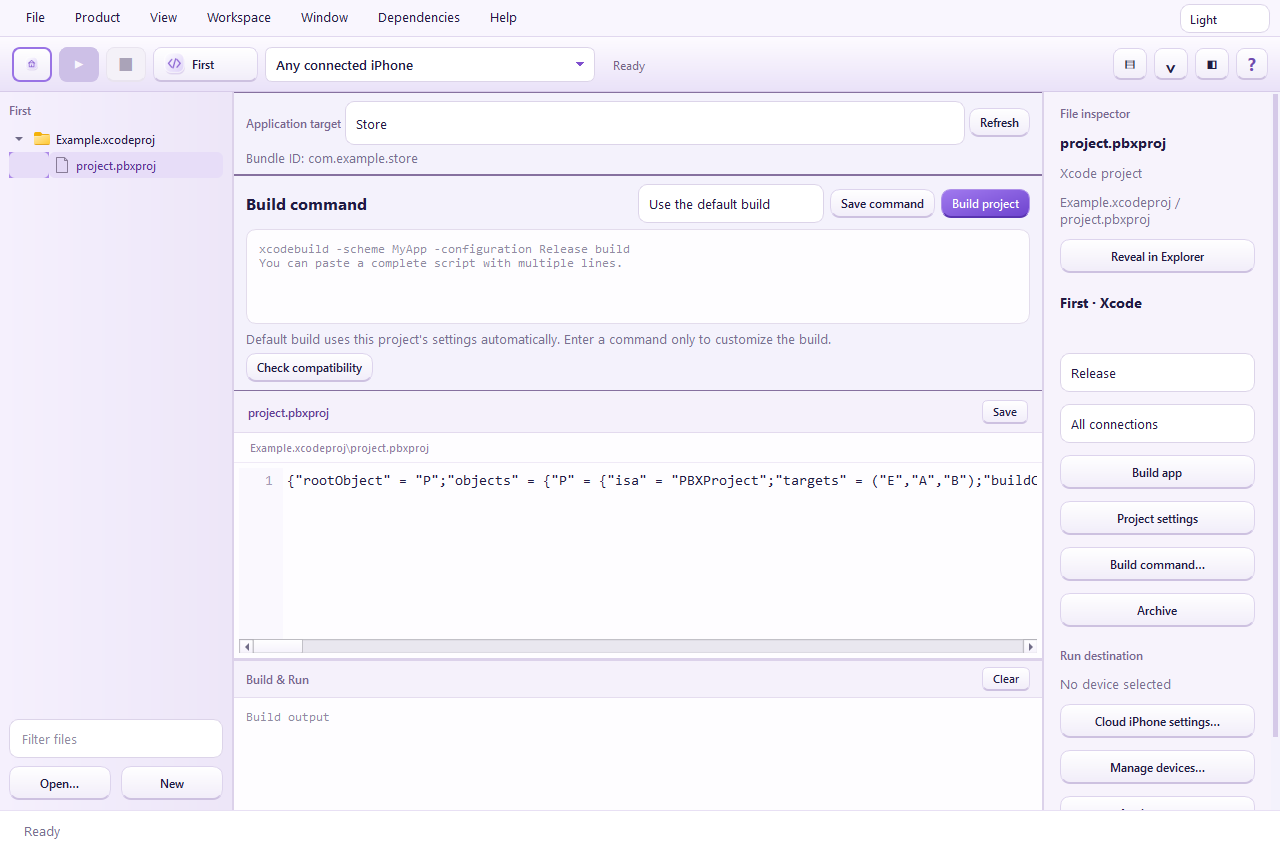
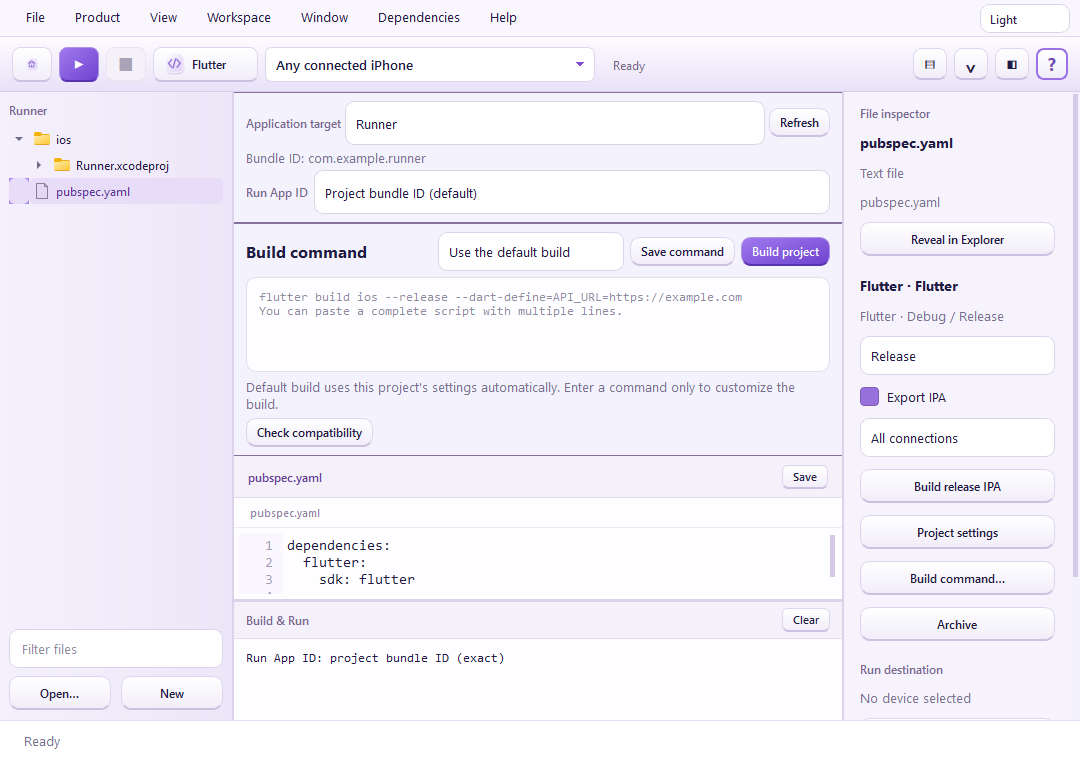
Document Rano IDE 1.0.16 exact device App ID selection

diff --git a/README.md b/README.md
@@ -6,23 +6,21 @@
 
 Rano IDE brings project files, build commands, dependency setup, iPhone connections and App Store Connect delivery into one desktop application. Its supported build paths run locally on Windows through WSL; Rano IDE does not send your project to a build server operated by us.
 
-**Current release: 1.0.15 · Windows x64 · Free to download and use · Application source is private.**
+**Current release: 1.0.16 · Windows x64 · Free to download and use · Application source is private.**
 
-👉 **[Download Rano IDE 1.0.15](https://github.com/hrano1000/Rano-IDE/releases/download/v1.0.15/RanoIDESetup-1.0.15.exe)**
+👉 **[Download Rano IDE 1.0.16](https://github.com/hrano1000/Rano-IDE/releases/download/v1.0.16/RanoIDESetup-1.0.16.exe)**
 
 📦 **[All releases and downloads](https://github.com/hrano1000/Rano-IDE/releases)** · 🐛 **[Report a problem](https://github.com/hrano1000/Rano-IDE/issues)** · 📜 **[License](LICENSE)** · 🔐 **[Privacy and security](SECURITY.md)**
 
 This public repository contains the downloads, user documentation, branding and dependency notices. It does not publish the Rano IDE desktop application's development source. GitHub's automatically generated repository ZIP contains these documents; choose the **EXE installer** to install the application.
 
-## 🆕 What's new in 1.0.15
+## 🆕 What's new in 1.0.16
 
-- 🎯 **Application target** is visible in Workbench above **Build command**, with the selected app's bundle ID beneath it.
-- 💾 Native iOS and React Native choices are remembered separately for each project and container. Multiple apps require an explicit choice; a missing saved target cannot silently switch to another app.
-- 📱 Flutter shows its supported **Runner** application. Notification extensions, tests and libraries are not main-app choices. Other Flutter app targets are marked unavailable rather than pretending to build them.
-- 🛡 Custom native commands cannot silently override the selected application. The established upload, signing and asset compilation implementations and the 1.0.14 metadata correction are retained.
-- 🔄 Flutter device Run selects a new app's original App ID automatically and retries temporary development-service lookups. Existing identity choices are preserved; signing mutations are not automatically repeated.
+- 🎯 **Run App ID** is visible in Workbench below Application target for Flutter device testing.
+- ✅ **Project bundle ID (default)** uses the exact project identity, even if a previous run selected a prefixed development ID.
+- 🔀 **Team-prefixed development ID** remains available as an explicit, project-specific choice.
+- 🛡 An offline profile for another identity cannot silently replace the selected app. App Store distribution is unchanged.
 
-The installed application passed packaged UI and installer checks. Project compatibility and setup limits are described below; local checks do not guarantee Apple's acceptance of every project.
 
 ## 🧭 Contents
 
@@ -68,7 +66,7 @@ Rano IDE provides:
 
 Rano IDE is a practical development tool with experimental compiler integrations. It is not a complete replacement for every Xcode feature or every iOS project's build tools.
 
-| Project or artifact | What is available in 1.0.15 | What to know before using it |
+| Project or artifact | What is available in 1.0.16 | What to know before using it |
 | --- | --- | --- |
 | Flutter | Local Debug/Release iOS builds, release AOT compilation, IPA output, archives and supported iPhone Run workflows | Native plugins must be compatible with the local compiler or a supported adapter. Downloading a package alone cannot make an unsupported native implementation work. Profile builds are not supported. |
 | SwiftPM applications compatible with xtool | Local Swift application builds, Debug/Release configuration and existing signing/device workflows | An arbitrary Swift library package is not automatically an installable iOS application. The project needs an appropriate application configuration. |
@@ -107,7 +105,7 @@ Large projects and compiler setup can need substantial time, memory and storage.
 
 The installer shows **Create a desktop shortcut**, checked by default. A Start menu shortcut is also created. Clear the desktop checkbox if you prefer to launch from the Start menu.
 
-1. Download **RanoIDESetup-1.0.15.exe** from the [official release page](https://github.com/hrano1000/Rano-IDE/releases/tag/v1.0.15).
+1. Download **RanoIDESetup-1.0.16.exe** from the [official release page](https://github.com/hrano1000/Rano-IDE/releases/tag/v1.0.16).
 2. Compare the download with the release's **SHA256SUMS.txt** if you want to verify its integrity. On Windows, the file's SHA-256 can be checked with a checksum utility or `Get-FileHash`.
 3. Open the EXE and choose **Install & open Rano IDE**.
 4. The application installs under your Windows user's local Programs directory and creates desktop/Start menu shortcuts.
@@ -163,7 +161,7 @@ Save source edits before building. The editor warns about unsaved changes and fi
 
 Choose **Application target** above **Build command**. Native iOS and React Native choices are remembered per project and container. If several apps exist, select one explicitly. **Refresh** rereads available targets; a removed saved target must be selected again. Notification extensions, tests and libraries are not main-app choices. Flutter currently builds **Runner**; additional Flutter app targets are marked unavailable. Swift packages show their configured app. The bundle ID shown is the project's declared ID for the selected configuration, not a provisioning-profile name.
 
-Flutter device Run automatically selects the original project App ID for a new app when neither ID is registered. Explicit saved `xcross.bundle_id` / `XCROSS_BUNDLE_ID` choices and existing registered identities are retained. Temporary read-only Apple development-service lookups get at most three attempts. Registrations, profiles, certificates and deletions are never automatically replayed. First-time provisioning still needs Apple reachable; if no valid offline profile exists, restore the connection and select Run again. This is separate from App Store Connect distribution.
+For Flutter device testing, choose **Run App ID** beneath Application target. **Project bundle ID (default)** signs and launches the project's exact ID, overriding old `xcross.bundle_id` choices and inherited `XCROSS_BUNDLE_ID` values for that Run. Select **Team-prefixed development ID** to use the separate development installation. Choices are saved per project. Different IDs have separate app data; the IDE does not delete the other installation. If Apple refuses the selected ID, or only another ID's profile is cached offline, Run stops rather than installing a different app. Initial provisioning still requires Apple online. Read-only development-service lookups get at most three attempts; signing mutations are not automatically replayed. This control does not change archives or App Store distribution.
 
 ## ⌨ Enter your own build command
 
@@ -366,7 +364,7 @@ Interrupted or uncertain submissions are **not automatically re-uploaded**. Chec
 
 ## 🔢 Versions and build numbers
 
-Rano IDE's **1.0.15** version is separate from your application's version.
+Rano IDE's **1.0.16** version is separate from your application's version.
 
 - Flutter normally gets app version/build from `pubspec.yaml` and supported build overrides.
 - Native Xcode projects use their selected configuration's marketing/build settings.
@@ -427,6 +425,6 @@ Rano IDE is **freeware with private application source**. Included/downloaded th
 
 Read [LICENSE](LICENSE), [THIRD_PARTY_NOTICES.md](THIRD_PARTY_NOTICES.md) and [DEPENDENCY_SOURCE_ACCESS.md](DEPENDENCY_SOURCE_ACCESS.md). Apple SDKs, project sources, credentials, signing profiles and developer build caches are excluded from the published release assets.
 
-Read the [full 1.0.15 audit](docs/AUDIT-1.0.15.md) for findings, verification and remaining limits.
+Read the [full 1.0.16 audit](docs/AUDIT-1.0.16.md) for findings, verification and remaining limits.
 
 For 1.0.14, the shared bundle generator writes standard Xcode product identity fields from the matching verified SDK import before signing. This corrects the omission left in 1.0.13's report-only metadata change. The actual Linux compiler and host remain separately recorded; no macOS host or stable build identifier is invented. **Check before upload** and the UI delivery guard reject missing, testing, conflicting and known unaccepted beta identities before transfer. **Release IPAs → Export details…** exposes the generated fields. Existing IPAs are unchanged; create a new archive to use the fix. Local verification does not establish Apple App Review acceptance of a new build. Transfer/signing and asset compilation implementations remain unchanged. The earlier WSL recovery protections and documented project/setup limitations remain applicable.

diff --git a/docs/AUDIT-1.0.16.md b/docs/AUDIT-1.0.16.md
@@ -1,0 +1,15 @@
+# 🎯 Rano IDE 1.0.16 — Exact device Run App ID
+
+## Cause and correction
+
+Workbench displayed the original project bundle ID while Flutter development signing could choose an older registered or saved prefixed identity. The target selector chose Runner correctly but did not choose original versus prefixed development identity.
+
+The new Run App ID selector defaults to the exact project bundle ID. Users can explicitly select the team-prefixed development app. The mode is stored per project and captured before workspace preparation. It travels in the launch protocol as a validated, narrowly scoped field; the bridge sets the backend override only for that operation. It does not modify original project files, global environment variables, other project windows, App Store metadata or distribution signing. Build and Archive do not receive the device override.
+
+The development resolver honors the explicit original choice over saved or registered prefixed identities. Refusal to register the original stops instead of falling back. Offline Run also restricts profile lookup to the exact chosen identity; certificate, expiry, device and entitlement checks remain in place. Existing install/launch code uses the resolved signed ID for the parent app and its extensions. Switching IDs keeps the other installed app and its separate data.
+
+## Verification
+
+Verification evidence is recorded alongside the release. Tests cover project/window isolation, settings-editor preservation, launch propagation, stale original/prefixed choices, online refusal and offline cache mismatch. A real Linux PTY test checks the child process's selected override without contacting Apple. The existing packaged checks include Run App ID visibility, persistence, propagation, themes and narrow layouts.
+
+No owner app was built, installed or uploaded during these checks. Native/React Native device Run remains unavailable; their build/archive compatibility limits are unchanged. Live provisioning and device launch are left for the user's UI test.
